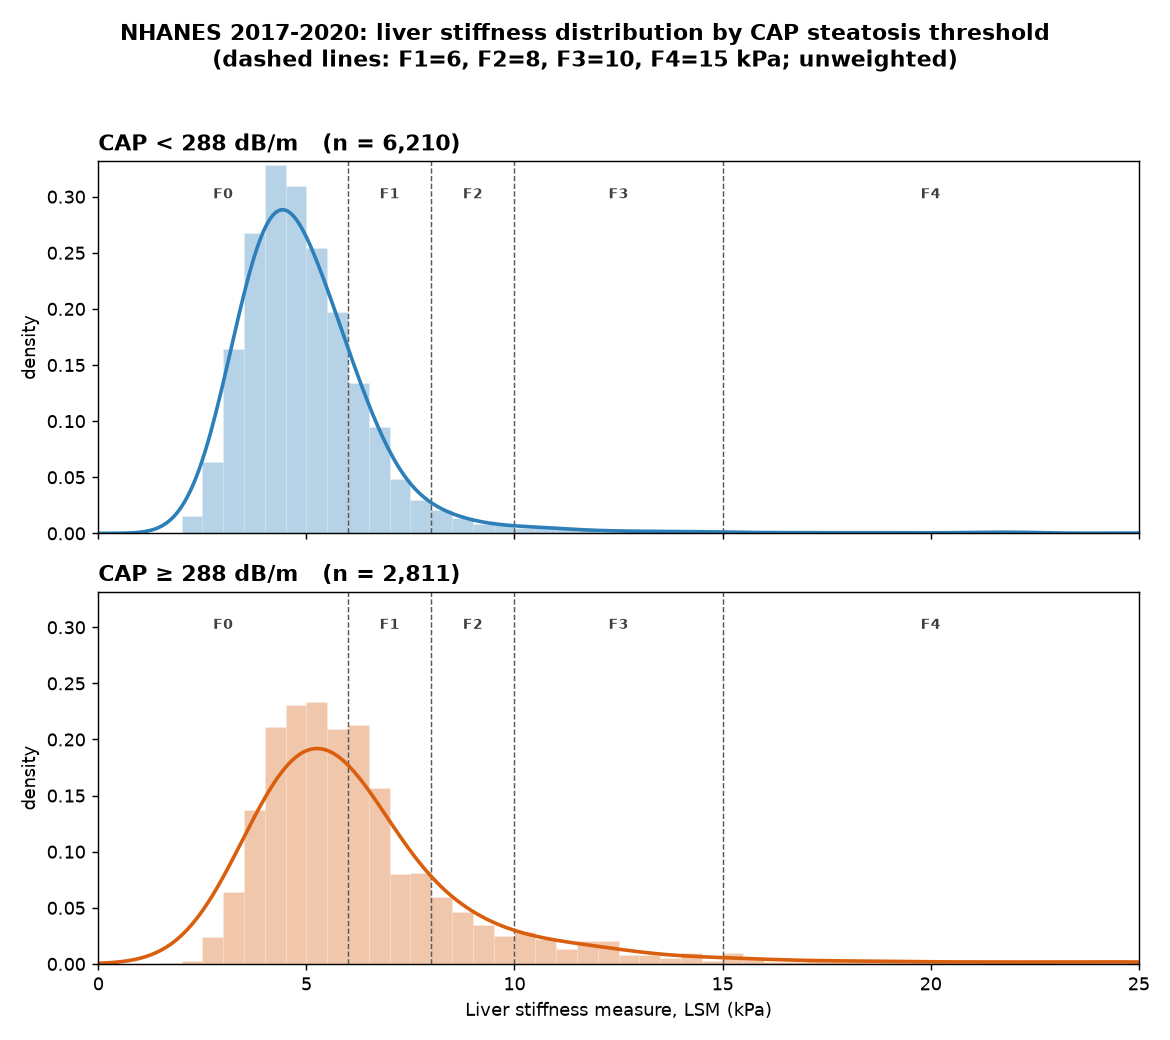
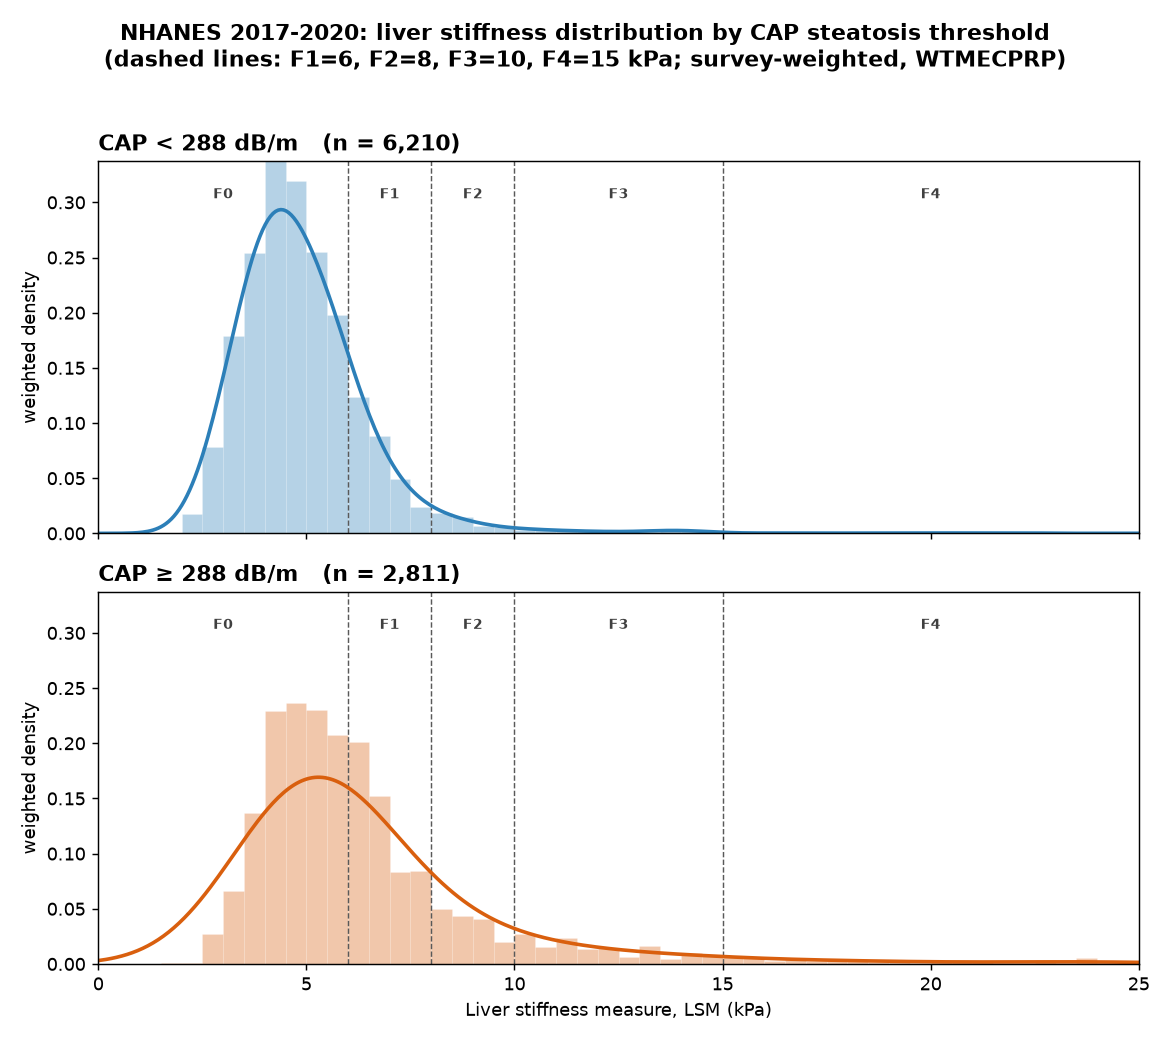
Apply NHANES survey weights (WTMECPRP) to LSM/CAP analysis
Weight all densities, KDEs, and prevalences with the 2017-2020 pre-pandemic
MEC exam weight WTMECPRP so estimates are population-representative. Load
SDMVPSU/SDMVSTRA for future design-based variance. Report weighted vs.
unweighted prevalence side by side. Add a CLAUDE.md note on why survey
weights matter for NHANES and which weight to use.

Claude-Session: https://claude.ai/code/session_01LwCnedbogfCfgas9av6aUf

diff --git a/nhanes_cap_lsm/analysis.py b/nhanes_cap_lsm/analysis.py
@@ -15,7 +15,13 @@ Fibrosis staging (per request, mutually-exclusive bins on LSM):
 
 Data: P_LUX (Liver Ultrasound Transient Elastography) + P_DEMO, merged on SEQN.
 Inclusion: complete elastography exam (LUAXSTAT == 1) with non-missing LSM & CAP.
-Note: estimates are UNWEIGHTED sample distributions (survey weights not applied).
+
+Survey weights: all densities, KDEs, and prevalences are SURVEY-WEIGHTED with
+the 2017-2020 pre-pandemic MEC exam weight WTMECPRP -- the appropriate weight
+for the MEC-based elastography component. Point estimates therefore represent
+the US population aged 12+. The design variables (SDMVPSU, SDMVSTRA) are loaded
+but used only for reference; design-based standard errors are not yet computed
+(see README caveats).
 """
 
 import os
@@ -44,11 +50,16 @@ for fname in ("P_LUX.xpt", "P_DEMO.xpt"):
 # Load & build analysis dataset
 # --------------------------------------------------------------------------
 lux = pd.read_sas("data/P_LUX.xpt")[["SEQN", "LUAXSTAT", "LUXSMED", "LUXCAPM"]]
-demo = pd.read_sas("data/P_DEMO.xpt")[["SEQN", "RIDAGEYR"]]
+demo = pd.read_sas("data/P_DEMO.xpt")[
+    ["SEQN", "RIDAGEYR", "WTMECPRP", "SDMVPSU", "SDMVSTRA"]]
 
 df = lux.merge(demo, on="SEQN", how="left")
 df = df[(df.LUAXSTAT == 1) & df.LUXSMED.notna() & df.LUXCAPM.notna()].copy()
-df = df.rename(columns={"LUXSMED": "LSM", "LUXCAPM": "CAP", "RIDAGEYR": "age"})
+df = df.rename(columns={"LUXSMED": "LSM", "LUXCAPM": "CAP",
+                        "RIDAGEYR": "age", "WTMECPRP": "w"})
+# MEC-examined participants with valid elastography all carry a positive
+# pre-pandemic exam weight; guard anyway.
+df = df[df.w > 0].copy()
 
 CAP_CUT = 288
 df["cap_hi"] = df.CAP >= CAP_CUT  # True = steatosis (CAP >= 288)
@@ -81,28 +92,53 @@ AGE_BINS = [12, 30, 45, 60, 81]
 AGE_LABELS = ["12-29", "30-44", "45-59", "60-80"]
 df["agegrp4"] = pd.cut(df.age, bins=AGE_BINS, right=False, labels=AGE_LABELS)
 
-print(f"Analysis sample: n={len(df)}")
-print(df.groupby("cap_hi").LSM.describe()[["count", "mean", "50%", "75%", "max"]])
-print("\nStage counts by CAP group:")
-print(pd.crosstab(df.stage, df.cap_hi, margins=True))
+
+# --------------------------------------------------------------------------
+# Weighted helpers
+# --------------------------------------------------------------------------
+def wmean(v, w):
+    return np.sum(v * w) / np.sum(w)
+
+
+def wquantile(v, w, q):
+    """Weighted quantile(s) of v with weights w."""
+    v = np.asarray(v, float); w = np.asarray(w, float)
+    order = np.argsort(v)
+    v, w = v[order], w[order]
+    cw = np.cumsum(w) - 0.5 * w
+    cw /= np.sum(w)
+    return np.interp(q, cw, v)
+
+
+print(f"Analysis sample: n={len(df)}  (sum of weights = "
+      f"{df.w.sum():,.0f} persons)")
+for hi, name in CAP_GROUPS:
+    g = df[df.cap_hi == hi]
+    p50, p75 = wquantile(g.LSM.values, g.w.values, [0.50, 0.75])
+    print(f"  {name}: n={len(g):,}  weighted mean LSM="
+          f"{wmean(g.LSM.values, g.w.values):.2f}  median={p50:.2f}  "
+          f"p75={p75:.2f} kPa")
 
 
 # --------------------------------------------------------------------------
-# Shared helper: draw one LSM panel (histogram + KDE + stage lines)
+# Shared helper: draw one LSM panel (weighted histogram + KDE + stage lines)
 # --------------------------------------------------------------------------
 XMAX = 25.0
 HIST_BINS = np.arange(0, XMAX + 0.5, 0.5)
 
 
-def draw_lsm_panel(ax, data, color, label_stages=False, ymax=None):
-    """Histogram (density) + KDE for an LSM array, with fibrosis stage lines."""
-    d = data[np.isfinite(data)]
+def draw_lsm_panel(ax, data, weights, color, label_stages=False, ymax=None):
+    """Weighted histogram (density) + weighted KDE for an LSM array."""
+    d = np.asarray(data, float); wt = np.asarray(weights, float)
+    ok = np.isfinite(d) & np.isfinite(wt)
+    d, wt = d[ok], wt[ok]
     # histogram over the shown range only (rare LSM > XMAX kPa omitted, not
     # piled into the last bin); KDE below is still fit to the full data.
-    ax.hist(d[d <= XMAX], bins=HIST_BINS, density=True,
+    m = d <= XMAX
+    ax.hist(d[m], bins=HIST_BINS, density=True, weights=wt[m],
             color=color, alpha=0.35, edgecolor="white", linewidth=0.3)
     if len(d) > 5 and d.std() > 0:
-        kde = gaussian_kde(d)
+        kde = gaussian_kde(d, weights=wt)
         xs = np.linspace(0, XMAX, 400)
         ax.plot(xs, kde(xs), color=color, linewidth=2)
 
@@ -111,7 +147,6 @@ def draw_lsm_panel(ax, data, color, label_stages=False, ymax=None):
         ax.axvline(t, color="0.35", linestyle="--", linewidth=0.8, zorder=1)
 
     if label_stages:
-        # place F-stage labels in the middle of each region near the top
         y = ax.get_ylim()[1] if ymax is None else ymax
         centers = {"F0": 3, "F1": 7, "F2": 9, "F3": 12.5, "F4": 20}
         for s, xc in centers.items():
@@ -120,28 +155,34 @@ def draw_lsm_panel(ax, data, color, label_stages=False, ymax=None):
     ax.set_xlim(0, XMAX)
 
 
+def weighted_kde_max(d, wt):
+    d = np.asarray(d, float); wt = np.asarray(wt, float)
+    ok = np.isfinite(d) & np.isfinite(wt)
+    d, wt = d[ok], wt[ok]
+    if len(d) <= 5 or d.std() == 0:
+        return 0.0
+    return gaussian_kde(d, weights=wt)(np.linspace(0, XMAX, 300)).max()
+
+
 # --------------------------------------------------------------------------
 # FIGURE 1: Overall stacked (CAP<288 above CAP>=288), all ages
 # --------------------------------------------------------------------------
 fig, axes = plt.subplots(2, 1, figsize=(9, 8), sharex=True, sharey=True)
-# pre-compute a common y-limit
-ymax = 0
-for hi, _ in CAP_GROUPS:
-    d = df.loc[df.cap_hi == hi, "LSM"].values
-    kde = gaussian_kde(d[np.isfinite(d)])
-    ymax = max(ymax, kde(np.linspace(0, XMAX, 400)).max())
-ymax *= 1.15
+ymax = 1.15 * max(weighted_kde_max(df.loc[df.cap_hi == hi, "LSM"].values,
+                                   df.loc[df.cap_hi == hi, "w"].values)
+                  for hi, _ in CAP_GROUPS)
 
 for ax, (hi, name) in zip(axes, CAP_GROUPS):
-    d = df.loc[df.cap_hi == hi, "LSM"].values
+    g = df[df.cap_hi == hi]
     ax.set_ylim(0, ymax)
-    draw_lsm_panel(ax, d, CAP_COLORS[hi], label_stages=True, ymax=ymax)
-    ax.set_ylabel("density")
-    ax.set_title(f"{name}   (n = {len(d):,})", loc="left", fontweight="bold")
+    draw_lsm_panel(ax, g.LSM.values, g.w.values, CAP_COLORS[hi],
+                   label_stages=True, ymax=ymax)
+    ax.set_ylabel("weighted density")
+    ax.set_title(f"{name}   (n = {len(g):,})", loc="left", fontweight="bold")
 axes[-1].set_xlabel("Liver stiffness measure, LSM (kPa)")
 fig.suptitle("NHANES 2017-2020: liver stiffness distribution by CAP steatosis "
              "threshold\n(dashed lines: F1=6, F2=8, F3=10, F4=15 kPa; "
-             "unweighted)", fontsize=12, fontweight="bold")
+             "survey-weighted, WTMECPRP)", fontsize=12, fontweight="bold")
 fig.tight_layout(rect=[0, 0, 1, 0.96])
 fig.savefig("fig1_lsm_overall.png", dpi=130)
 plt.close(fig)
@@ -152,37 +193,33 @@ print("\nwrote fig1_lsm_overall.png")
 # FIGURE 2: Small multiples -- 2 CAP rows x 4 age columns
 # --------------------------------------------------------------------------
 fig, axes = plt.subplots(2, 4, figsize=(17, 7.5), sharex=True, sharey=True)
-# common y across all panels
 ymax = 0
 for hi, _ in CAP_GROUPS:
     for ag in AGE_LABELS:
-        d = df.loc[(df.cap_hi == hi) & (df.agegrp4 == ag), "LSM"].values
-        d = d[np.isfinite(d)]
-        if len(d) > 5 and d.std() > 0:
-            kde = gaussian_kde(d)
-            ymax = max(ymax, kde(np.linspace(0, XMAX, 300)).max())
+        g = df[(df.cap_hi == hi) & (df.agegrp4 == ag)]
+        ymax = max(ymax, weighted_kde_max(g.LSM.values, g.w.values))
 ymax *= 1.15
 
 for r, (hi, name) in enumerate(CAP_GROUPS):
     for c, ag in enumerate(AGE_LABELS):
         ax = axes[r, c]
-        d = df.loc[(df.cap_hi == hi) & (df.agegrp4 == ag), "LSM"].values
+        g = df[(df.cap_hi == hi) & (df.agegrp4 == ag)]
         ax.set_ylim(0, ymax)
-        draw_lsm_panel(ax, d, CAP_COLORS[hi], label_stages=(r == 0),
-                       ymax=ymax)
+        draw_lsm_panel(ax, g.LSM.values, g.w.values, CAP_COLORS[hi],
+                       label_stages=(r == 0), ymax=ymax)
         if r == 0:
             ax.set_title(f"Age {ag}", fontsize=12, fontweight="bold")
-        ax.text(0.97, 0.97, f"n = {len(d):,}", transform=ax.transAxes,
+        ax.text(0.97, 0.97, f"n = {len(g):,}", transform=ax.transAxes,
                 ha="right", va="top", fontsize=9, color="0.3")
         if c == 0:
-            ax.set_ylabel(f"{name}\n\ndensity", fontweight="bold")
+            ax.set_ylabel(f"{name}\n\nweighted density", fontweight="bold")
         if r == 1:
             ax.set_xlabel("LSM (kPa)")
 
 fig.suptitle("NHANES 2017-2020 liver stiffness (LSM) by CAP threshold and age "
              "group\nTop: CAP < 288 dB/m   |   Bottom: CAP ≥ 288 dB/m   "
-             "(dashed lines F1=6, F2=8, F3=10, F4=15; unweighted)",
-             fontsize=13, fontweight="bold")
+             "(dashed lines F1=6, F2=8, F3=10, F4=15; survey-weighted, "
+             "WTMECPRP)", fontsize=13, fontweight="bold")
 fig.tight_layout(rect=[0, 0, 1, 0.93])
 fig.savefig("fig2_lsm_smallmultiples.png", dpi=130)
 plt.close(fig)
@@ -194,17 +231,20 @@ print("wrote fig2_lsm_smallmultiples.png")
 # --------------------------------------------------------------------------
 AGE5_BINS = list(range(10, 86, 5))          # 10-15, 15-20, ..., 80-85
 df["age5"] = pd.cut(df.age, bins=AGE5_BINS, right=False)
-MIN_CELL = 25  # suppress prevalence estimates from cells smaller than this
+MIN_CELL = 25  # suppress estimates from cells with < 25 actual observations
 
-# prevalence table: for each (cap_hi, age5), fraction in each stage
+# weighted prevalence: for each (cap_hi, age5) cell, weighted fraction in stage.
+# Cell suppression is based on the UNWEIGHTED count (actual observations).
 rows = []
 for hi, _ in CAP_GROUPS:
     for interval, g in df[df.cap_hi == hi].groupby("age5", observed=True):
         n = len(g)
         mid = (interval.left + interval.right) / 2
-        rec = {"cap_hi": hi, "age_mid": mid, "n": n}
+        wtot = g.w.sum()
+        rec = {"cap_hi": hi, "age_mid": mid, "n": n, "w_sum": wtot}
         for s in STAGES:
-            rec[s] = (g.stage == s).mean() * 100 if n >= MIN_CELL else np.nan
+            rec[s] = (g.loc[g.stage == s, "w"].sum() / wtot * 100
+                      if n >= MIN_CELL else np.nan)
         rows.append(rec)
 prev = pd.DataFrame(rows)
 
@@ -215,7 +255,7 @@ for ax, s in zip(axes.ravel(), STAGES):
         ax.plot(sub.age_mid, sub[s], marker="o", markersize=4,
                 color=CAP_COLORS[hi], label=name)
     ax.set_title(f"{s}  (LSM {STAGE_RANGE[s]} kPa)", fontweight="bold")
-    ax.set_ylabel("prevalence (% of CAP group)")
+    ax.set_ylabel("weighted prevalence (% of CAP group)")
     ax.grid(alpha=0.3)
     ax.set_ylim(bottom=0)
 for ax in axes[1]:
@@ -223,7 +263,7 @@ for ax in axes[1]:
 axes[0, 0].legend(frameon=False, fontsize=10)
 fig.suptitle("NHANES 2017-2020: fibrosis-stage prevalence by age, above vs. "
              f"below CAP {CAP_CUT} dB/m\n(5-year age groups; cells with n < "
-             f"{MIN_CELL} suppressed; unweighted)",
+             f"{MIN_CELL} suppressed; survey-weighted, WTMECPRP)",
              fontsize=13, fontweight="bold")
 fig.tight_layout(rect=[0, 0, 1, 0.94])
 fig.savefig("fig3_fibrosis_prevalence_by_age.png", dpi=130)
@@ -231,12 +271,27 @@ plt.close(fig)
 print("wrote fig3_fibrosis_prevalence_by_age.png")
 
 # --------------------------------------------------------------------------
-# Summary tables to stdout + csv
+# Summary tables to stdout + csv (weighted, with unweighted for comparison)
 # --------------------------------------------------------------------------
-print("\n=== Stage prevalence (%) by CAP group, all ages ===")
-tab = (pd.crosstab(df.stage, df.cap_hi, normalize="columns") * 100).round(1)
-tab.columns = ["CAP<288", "CAP>=288"]
-print(tab.reindex(["F0", "F1", "F2", "F3", "F4"]))
-tab.to_csv("stage_prevalence_by_cap.csv")
+def stage_prevalence(weighted):
+    out = {}
+    for hi, _ in CAP_GROUPS:
+        g = df[df.cap_hi == hi]
+        denom = g.w.sum() if weighted else len(g)
+        col = {}
+        for s in ["F0"] + STAGES:
+            num = g.loc[g.stage == s, "w"].sum() if weighted else (g.stage == s).sum()
+            col[s] = round(num / denom * 100, 1)
+        out["CAP<288" if not hi else "CAP>=288"] = col
+    return pd.DataFrame(out).reindex(["F0"] + STAGES)
+
+
+wtab = stage_prevalence(weighted=True)
+utab = stage_prevalence(weighted=False)
+print("\n=== Stage prevalence (%) by CAP group, all ages (WEIGHTED) ===")
+print(wtab)
+print("\n(for comparison, UNWEIGHTED %):")
+print(utab)
+wtab.to_csv("stage_prevalence_by_cap.csv")
 prev.to_csv("stage_prevalence_by_age_cap.csv", index=False)
 print("\nwrote stage_prevalence_by_cap.csv, stage_prevalence_by_age_cap.csv")

diff --git a/nhanes_cap_lsm/README.md b/nhanes_cap_lsm/README.md
@@ -19,6 +19,13 @@ without significant steatosis.
 **Inclusion:** complete elastography exam (`LUAXSTAT == 1`) with non-missing
 LSM and CAP → **n = 9,021** (ages 12–80). Files merged on `SEQN`.
 
+**Survey weights:** all densities, KDEs, and prevalences are weighted with the
+2017–2020 pre-pandemic MEC exam weight **`WTMECPRP`** — the correct weight for
+the MEC-based elastography component. Point estimates therefore represent the
+US population aged 12+ (the weights sum to ≈241 million). Weighting is not
+cosmetic here: e.g., F4 below the CAP threshold is 0.5% weighted vs. 0.9%
+unweighted, and F0 below threshold is 81.8% vs. 79.8%.
+
 **Fibrosis staging** (mutually-exclusive bins on LSM, per request):
 
 | Stage | LSM (kPa) |
@@ -44,26 +51,30 @@ uv run python analysis.py   # auto-downloads P_LUX.xpt / P_DEMO.xpt on first run
 
 ## Key findings
 
-Stage prevalence by CAP group, all ages (unweighted, %):
+Stage prevalence by CAP group, all ages (**survey-weighted**, %; unweighted in
+parentheses):
 
 | Stage | CAP < 288 | CAP ≥ 288 |
 |-------|-----------|-----------|
-| F0 | 79.8 | 55.1 |
-| F1 | 15.3 | 26.3 |
-| F2 | 2.5 | 8.1 |
-| F3 | 1.4 | 6.8 |
-| F4 | 0.9 | 3.7 |
+| F0 | 81.8 (79.8) | 55.9 (55.1) |
+| F1 | 14.2 (15.3) | 25.6 (26.3) |
+| F2 | 2.3 (2.5) | 7.5 (8.1) |
+| F3 | 1.2 (1.4) | 6.8 (6.8) |
+| F4 | 0.5 (0.9) | 4.2 (3.7) |
 
-- The CAP ≥ 288 group's LSM distribution is shifted right at every age group; median LSM 5.7 vs. 4.7 kPa.
-- Advanced-fibrosis prevalence (F3, F4) is roughly **4–5× higher** above the CAP threshold and rises steeply with age.
+- The CAP ≥ 288 group's LSM distribution is shifted right at every age group; weighted median LSM 5.6 vs. 4.6 kPa (mean 7.0 vs. 5.0).
+- Advanced-fibrosis prevalence (F3, F4) is roughly **5–8× higher** above the CAP threshold and rises steeply with age.
 
 ## Caveats
 
-- **Unweighted.** Estimates are sample distributions/proportions; NHANES MEC
-  survey weights (`WTMECPRP`) are **not** applied, so these are not
-  population-representative prevalences.
+- **Point estimates only.** Estimates are survey-weighted (`WTMECPRP`) and so
+  are population-representative, but design-based **standard errors / CIs are
+  not yet computed**. Proper variance needs the design variables (`SDMVPSU`,
+  `SDMVSTRA`, loaded but unused) via Taylor linearization — a natural next
+  step, especially for the noisy small cells in `fig3`.
 - Histograms truncate the x-axis at 25 kPa for resolution; the 0.6% of
   participants with LSM > 25 kPa are omitted from the bars (the KDE still
   uses all data).
-- In `fig3`, 5-year age × CAP cells with n < 25 are suppressed; the youngest
-  CAP ≥ 288 points rest on small cells and are noisy.
+- In `fig3`, 5-year age × CAP cells with n < 25 *observations* are suppressed
+  (suppression uses the unweighted count, not the weighted total); the
+  youngest CAP ≥ 288 points still rest on small cells and are noisy.

diff --git a/CLAUDE.md b/CLAUDE.md
@@ -25,6 +25,30 @@ I would like to keep the environments easy to create and isolated, e.g. for mpld
 
 - for mpld3_notes: Test scripts follow the pattern `test_pr<NUMBER>_<description>.py`
 
+## NHANES Data Analysis
+
+**Always apply NHANES survey weights.** NHANES uses a complex, multistage probability
+sample with oversampling of subgroups, so unweighted statistics are *not*
+nationally representative and can be biased. Weighting is rarely cosmetic — it
+routinely shifts prevalences and distribution shapes (e.g., in
+`nhanes_cap_lsm/`, weighting changed below-threshold F4 prevalence from 0.9% to
+0.5%).
+
+- **Pick the weight that matches the rarest component used.** For exam (MEC)
+  variables such as elastography or labs, use the MEC weight, not the interview
+  weight. For the 2017–2020 pre-pandemic file, that is `WTMECPRP` (interview:
+  `WTINTPRP`); for two-year cycles it is `WTMEC2YR` / `WTINT2YR`. Subsample
+  files (e.g., fasting labs) carry their own special weights — use those.
+- **2017–2020 is a special combined cycle.** Use the pre-pandemic `WTMECPRP` /
+  `WTINTPRP` weights built for the ~3.5-year period; do not pool two-year
+  weights yourself. When combining multiple two-year cycles, divide each cycle's
+  weight per the NHANES analytic guidelines instead.
+- **Weight every estimate**, including histograms (`weights=`), KDEs
+  (`gaussian_kde(..., weights=)`), and prevalences (ratio of weighted sums).
+- **Design-based variance** (standard errors, CIs) additionally needs the design
+  variables `SDMVPSU` and `SDMVSTRA` via Taylor linearization (or a survey
+  package). Suppress/flag small cells by the *unweighted* count.
+
 ## Technical Blog Post Guidelines
 
 When writing technical blog posts for healthyalgorithms.com: